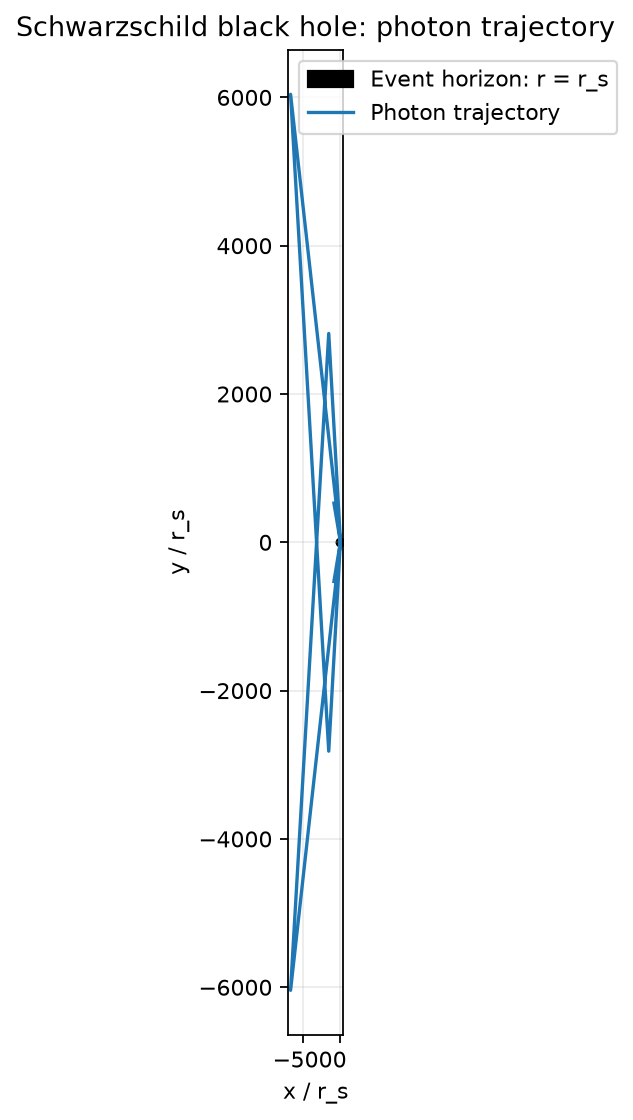
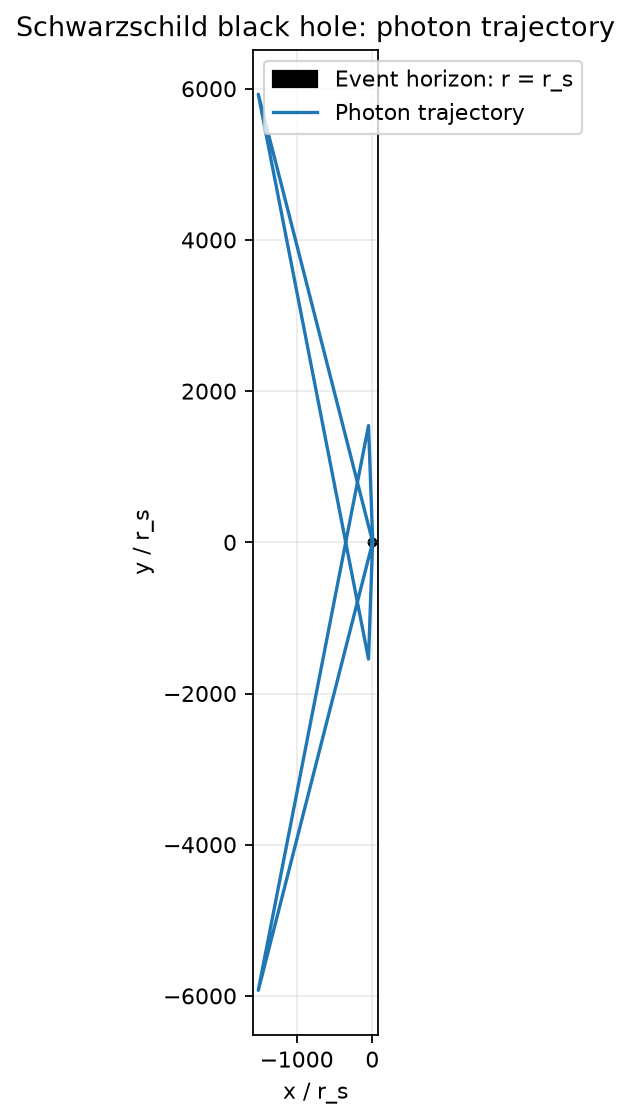
event skipper

diff --git a/src/simulate.py b/src/simulate.py
@@ -3,7 +3,7 @@ from lab.plot import plot_trajectory
 
 
 def main() -> None:
-    ray = simulate_ray(closest_approach=10.0)
+    ray = simulate_ray(closest_approach=5.0)
 
     plot_trajectory(ray, "outputs/first_ray.png")
     print("u min:", ray.u.min())
